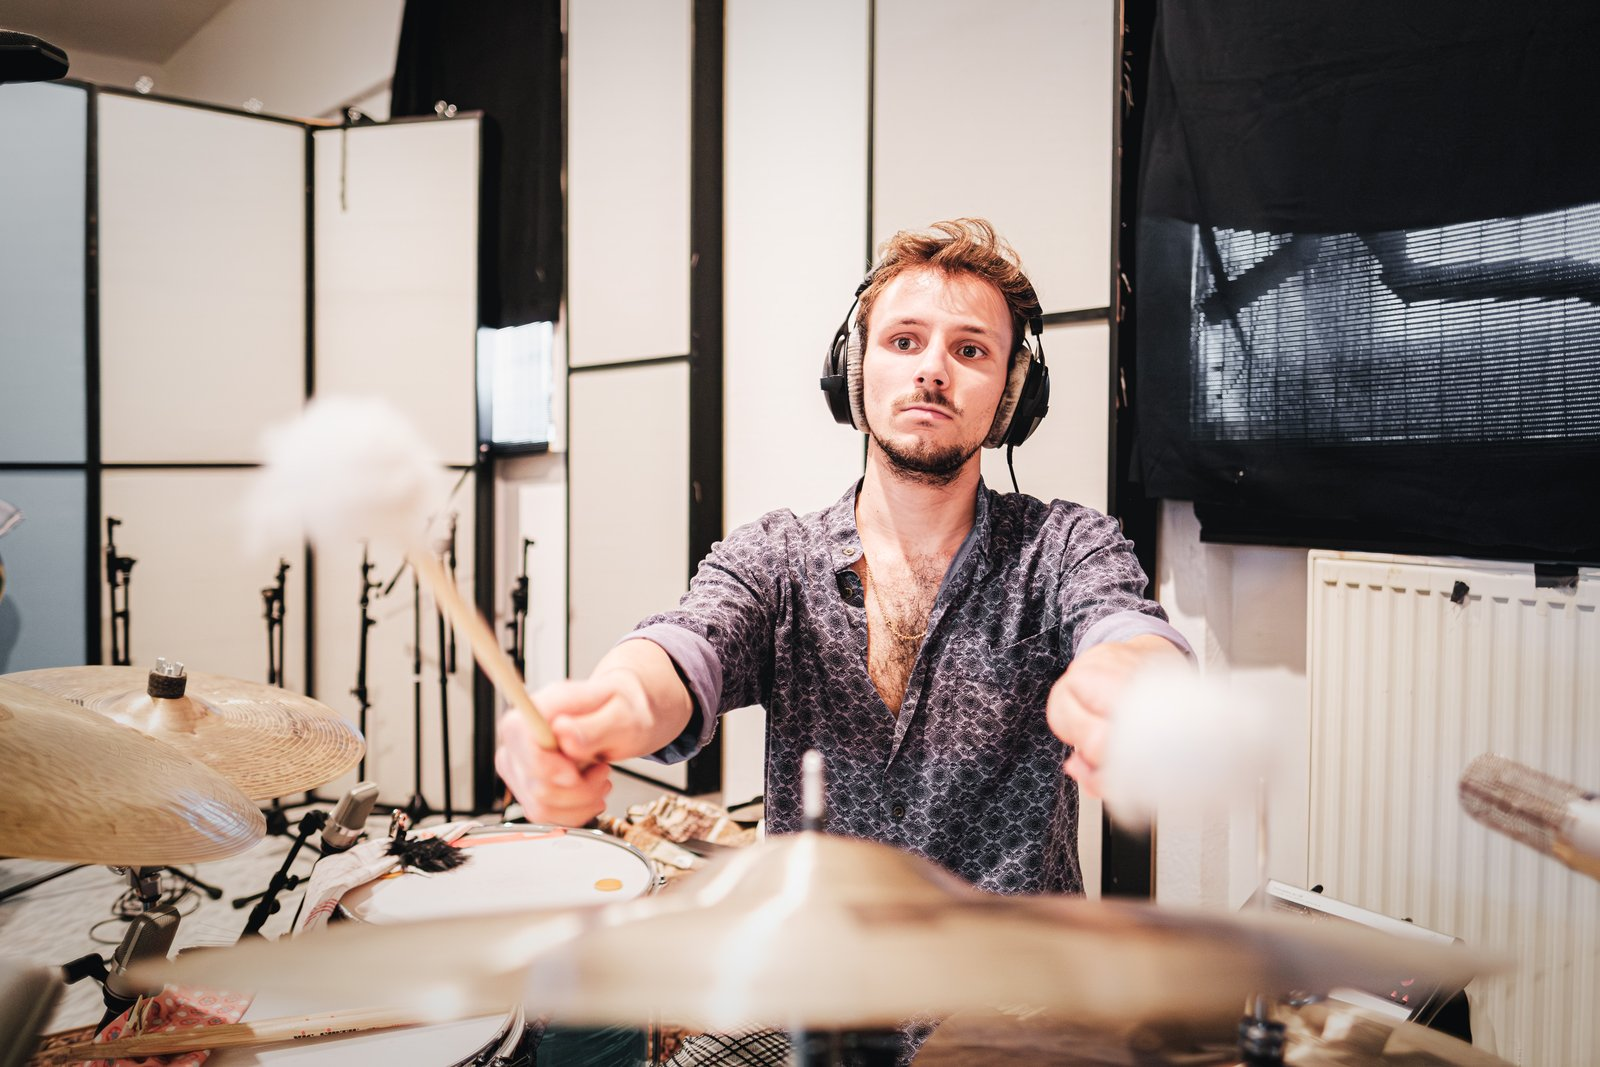
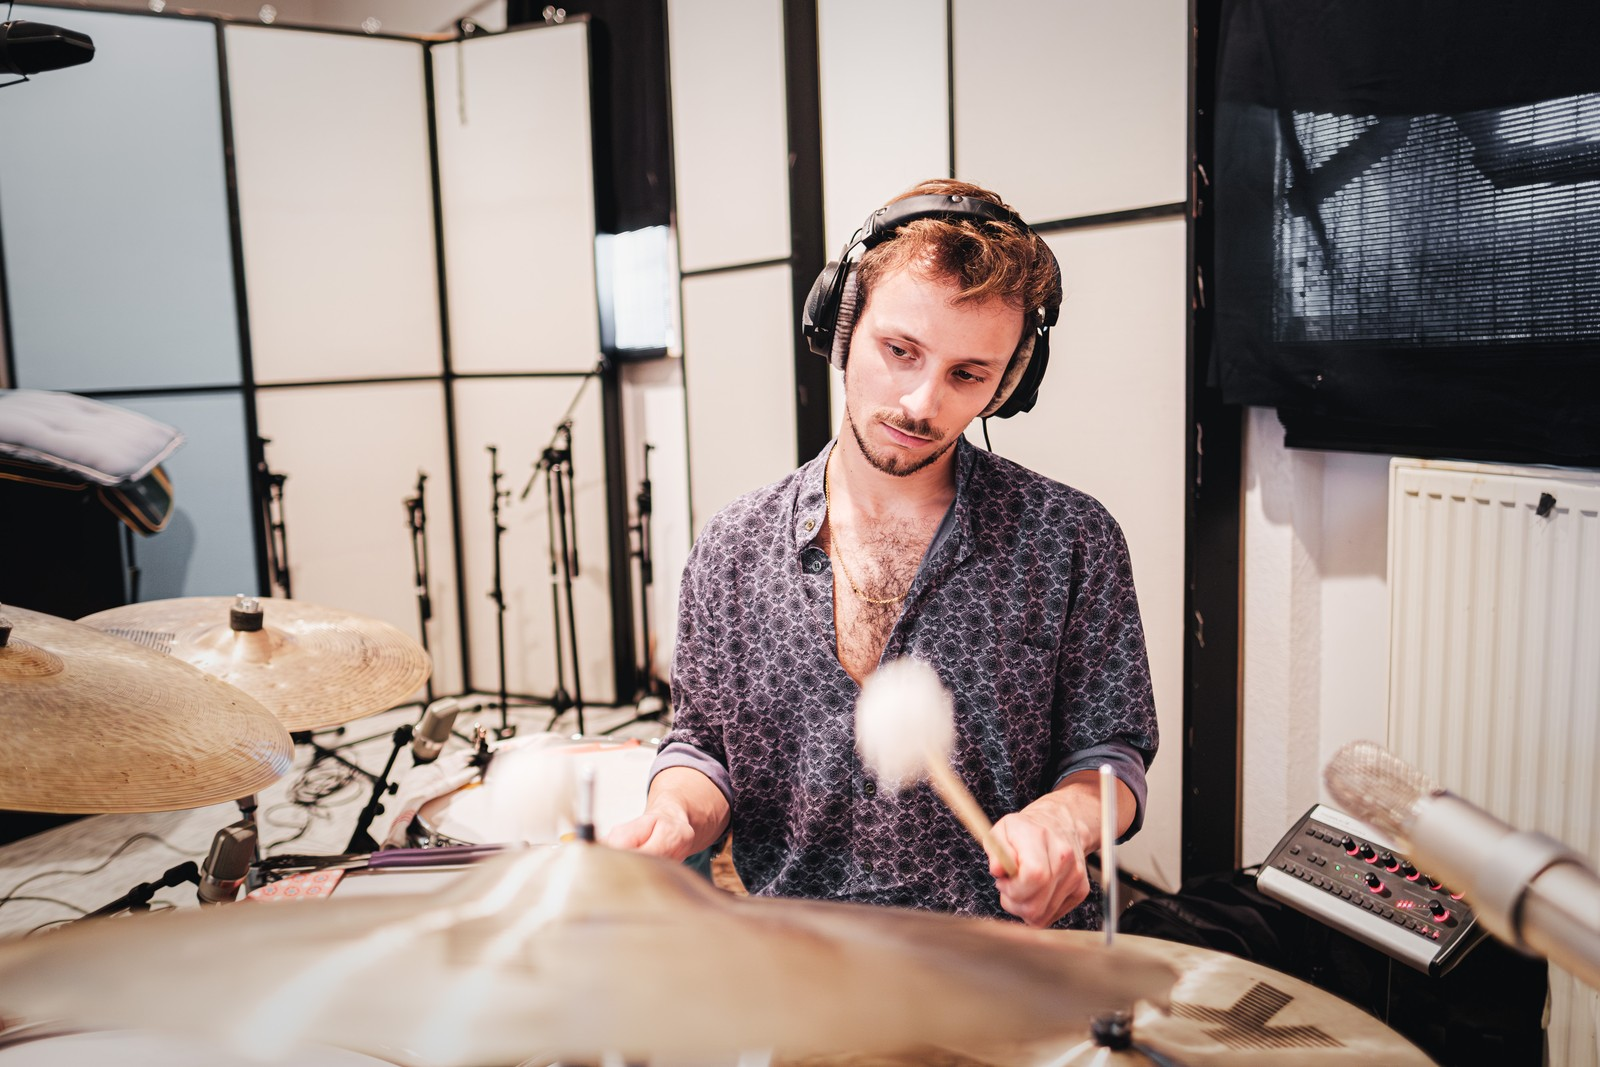
Jakob-Bänsch-Galerie: letztes Foto ausgetauscht

diff --git a/HANDOFF.md b/HANDOFF.md
@@ -343,6 +343,13 @@ statt iframe zeigen, iframe erst per Klick nachladen.
 
 ## Erledigt (chronologisch, neueste zuerst)
 
+- Jakob-Bänsch-Galerie: letztes Foto (#4) ausgetauscht — Leo hat das
+  gewünschte Foto direkt als Bild in den Chat gepastet (kein Dateipfad
+  mitgeschickt), Zuordnung zur Originaldatei per visuellem Abgleich mit
+  allen Fotos in `.../Jakob Bänsch/Jakob Bänsch Quartett/2024/Bilder
+  Studio/` (Kontaktabzug aller 25 Bilder gebaut, dann Kandidaten einzeln
+  vergrößert verglichen): `Jakob_Bänsch_Quartett-356.jpg`. Gleiche
+  Bildquelle wie die restliche Galerie, nicht im Repo (2026-08-10)
 - Jakob-Bänsch-Galerie auf 4 Fotos reduziert (5. Foto entfernt, zu nah am
   4.). Neues Projektkarten-Vorschaubild: Bandfoto aller 4 Musiker vor der
   Kirche (`JakobBänsch-221.jpg`, gleiche Nürnberg-26.5.23-Session wie das
